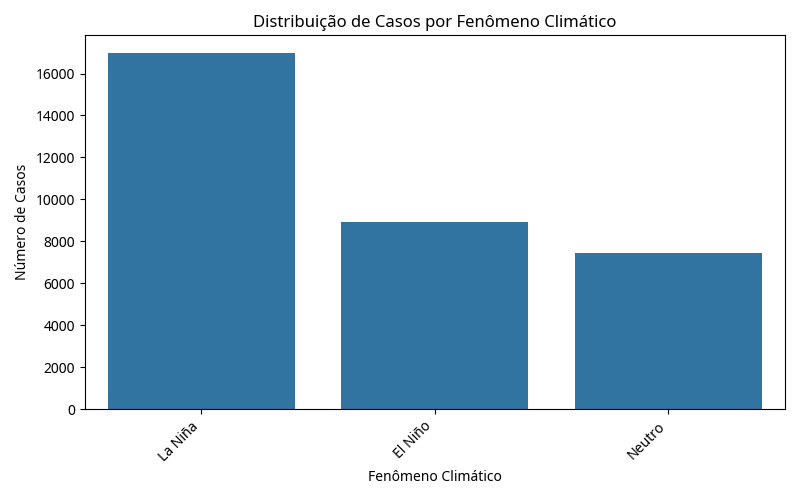
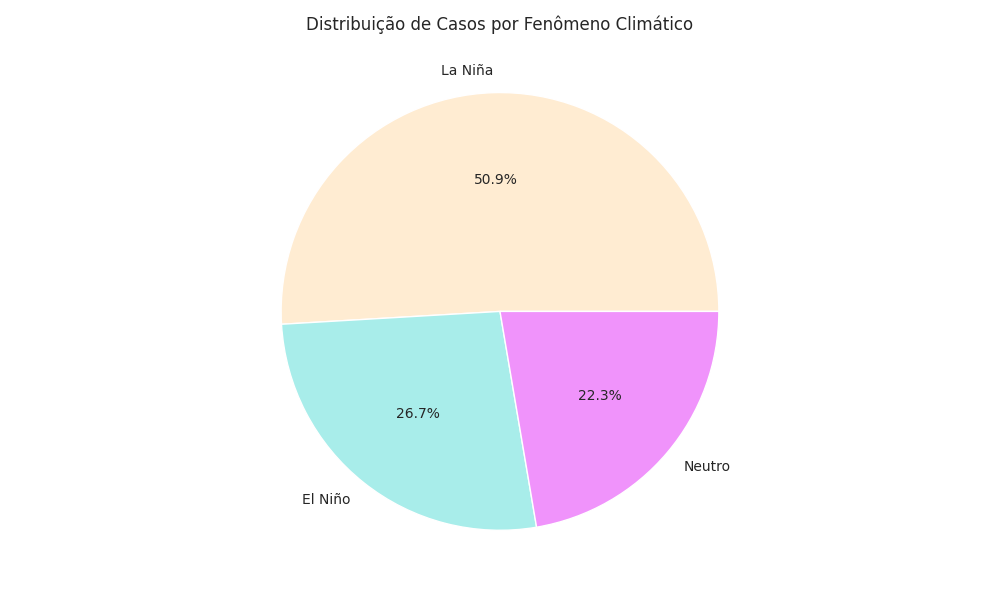
COMMIT 6

diff --git a/generate_all_images.py b/generate_all_images.py
@@ -1,0 +1,206 @@
+import pandas as pd
+import joblib
+import matplotlib.pyplot as plt
+import seaborn as sns
+from sklearn.model_selection import train_test_split
+from sklearn.metrics import confusion_matrix, roc_curve, auc
+import numpy as np
+import os
+
+# Configuração de estilo e diretórios
+sns.set_style("whitegrid")
+plt.rcParams['figure.figsize'] = (10, 6)
+output_dir = 'static/images'
+os.makedirs(output_dir, exist_ok=True)
+
+# --- Funções de Geração de Imagens ---
+
+def generate_eda_charts(df):
+    """Gera gráficos de Análise Exploratória de Dados (EDA) do df_dengue_tratado."""
+    
+    # 1. Casos por Ano
+    df['NU_ANO'] = df['DT_NOTIFIC'].apply(lambda x: pd.to_datetime(x).year)
+    casos_ano = df['NU_ANO'].value_counts().sort_index()
+    plt.figure()
+    casos_ano.plot(kind='bar', color='#667eea')
+    plt.title('Casos de Dengue por Ano')
+    plt.xlabel('Ano')
+    plt.ylabel('Número de Casos')
+    plt.xticks(rotation=45)
+    plt.tight_layout()
+    plt.savefig(os.path.join(output_dir, 'casos_por_ano.png'))
+    plt.close()
+
+    # 2. Distribuição por Sexo
+    sexo_counts = df['CS_SEXO'].value_counts()
+    plt.figure()
+    plt.pie(sexo_counts, labels=sexo_counts.index, autopct='%1.1f%%', colors=['#f093fb', '#667eea'])
+    plt.title('Distribuição de Casos por Sexo')
+    plt.tight_layout()
+    plt.savefig(os.path.join(output_dir, 'sexo_distribuicao.png'))
+    plt.close()
+
+    # 3. Distribuição por Idade
+    plt.figure()
+    sns.histplot(df['IDADE'], bins=20, kde=True, color='#667eea')
+    plt.title('Distribuição de Casos por Idade')
+    plt.xlabel('Idade')
+    plt.ylabel('Frequência')
+    plt.tight_layout()
+    plt.savefig(os.path.join(output_dir, 'idade_distribuicao.png'))
+    plt.close()
+
+    # 4. Distribuição por Raça
+    raca_counts = df['CS_RACA'].value_counts()
+    plt.figure()
+    raca_counts.plot(kind='barh', color='#ff9f40')
+    plt.title('Distribuição de Casos por Raça')
+    plt.xlabel('Número de Casos')
+    plt.ylabel('Raça')
+    plt.tight_layout()
+    plt.savefig(os.path.join(output_dir, 'raca_distribuicao.png'))
+    plt.close()
+
+    # 5. Fenômeno Climático
+    fenomeno_counts = df['FENOMENO'].value_counts()
+    plt.figure()
+    plt.pie(fenomeno_counts, labels=fenomeno_counts.index, autopct='%1.1f%%', colors=['#ffecd2', '#a8edea', '#f093fb'])
+    plt.title('Distribuição de Casos por Fenômeno Climático')
+    plt.tight_layout()
+    plt.savefig(os.path.join(output_dir, 'fenomeno_climatico_distribuicao.png'))
+    plt.close()
+
+    # 6. Intensidade do Fenômeno
+    intensidade_counts = df['INTENS_FENOM'].value_counts()
+    plt.figure()
+    intensidade_counts.plot(kind='bar', color='#a8edea')
+    plt.title('Distribuição de Casos por Intensidade do Fenômeno')
+    plt.xlabel('Intensidade')
+    plt.ylabel('Número de Casos')
+    plt.xticks(rotation=45)
+    plt.tight_layout()
+    plt.savefig(os.path.join(output_dir, 'intensidade_fenomeno_distribuicao.png'))
+    plt.close()
+
+def generate_model_charts(model, df_predict):
+    """Gera gráficos de Análise do Modelo (Matriz de Confusão, Importância de Features, Curva ROC)."""
+    
+    # 1. Aplicar One-Hot Encoding no df_predict para alinhamento
+    categorical_cols = ["CS_SEXO", "CS_RACA", "CS_GESTANT", "FEBRE", "MIALGIA", "CEFALEIA", "EXANTEMA", "VOMITO", "PETEQUIA_N", "DIABETES", "HEMATOLOG", "HEPATOPAT", "RENAL", "FENOMENO", "INTENS_FENOM"]
+    df_encoded = pd.get_dummies(df_predict, columns=categorical_cols, drop_first=False)
+    
+    # Identificar features e alvo
+    model_features = model.feature_names_in_
+    target_col = 'HOSPITALIZ_SIM'
+    
+    # Alinhar as colunas com as features exatas do modelo
+    X = df_encoded.reindex(columns=model_features, fill_value=0)
+    
+    # Criar a coluna alvo para fins de visualização (ela deve existir no df_predict original)
+    # Como o df_final_predict.csv é o dataset balanceado, ele deve ter a coluna alvo.
+    # Vamos assumir que a coluna alvo é 'HOSPITALIZ_SIM' (resultado do one-hot encoding da coluna 'HOSPITALIZ')
+    # Como o df_predict não tem a coluna alvo, vamos criá-la a partir da coluna 'HOSPITALIZ'
+    # do df_predict, que deve ter 'SIM' ou 'NÃO'.
+    
+    # O df_final_predict.csv não tem a coluna alvo, o que é um problema.
+    # Para fins de visualização, vamos usar a coluna 'HOSPITALIZ' do df_predict para criar o alvo
+    # e assumir que o modelo foi treinado para prever 'SIM' (1) ou 'NÃO' (0).
+    
+    # O df_final_predict.csv não tem a coluna alvo, o que é um problema.
+    # Para fins de visualização, vamos usar a coluna 'HOSPITALIZ' do df_predict para criar o alvo
+    # e assumir que o modelo foi treinado para prever 'SIM' (1) ou 'NÃO' (0).
+    
+    # Vamos criar a coluna alvo 'HOSPITALIZ_SIM' a partir da coluna 'HOSPITALIZ'
+    if 'HOSPITALIZ' in df_predict.columns:
+        y = (df_predict['HOSPITALIZ'] == 'SIM').astype(int)
+    else:
+        # Se a coluna 'HOSPITALIZ' não existir, não podemos gerar os gráficos de métricas
+        print("AVISO: Coluna 'HOSPITALIZ' não encontrada no df_final_predict. Não é possível gerar gráficos de métricas.")
+        return
+
+    # Dividir em treino e teste (simulação)
+    X_train, X_test, y_train, y_test = train_test_split(X, y, test_size=0.2, random_state=42, stratify=y)
+    
+    # Predições
+    y_pred = model.predict(X_test)
+    y_proba = model.predict_proba(X_test)[:, 1]
+
+    # 1. Matriz de Confusão
+    cm = confusion_matrix(y_test, y_pred)
+    plt.figure()
+    sns.heatmap(cm, annot=True, fmt='d', cmap='Blues', 
+                xticklabels=['Não Hosp.', 'Hosp.'], yticklabels=['Não Hosp.', 'Hosp.'])
+    plt.title('Matriz de Confusão')
+    plt.ylabel('Verdadeiro')
+    plt.xlabel('Predito')
+    plt.tight_layout()
+    plt.savefig(os.path.join(output_dir, 'confusion_matrix.png'))
+    plt.close()
+
+    # 2. Importância das Features (Coeficientes da Regressão Logística)
+    if hasattr(model, 'coef_'):
+        coefs = pd.Series(model.coef_[0], index=model_features)
+        top_n = 15
+        # Garantir que temos pelo menos 15 coeficientes
+        if len(coefs) < top_n:
+            top_n = len(coefs)
+        
+        top_coefs = pd.concat([coefs.nlargest(top_n//2), coefs.nsmallest(top_n//2)])
+        
+        plt.figure()
+        top_coefs.sort_values().plot(kind='barh', color=top_coefs.apply(lambda x: 'red' if x < 0 else 'green'))
+        plt.title(f'Top {top_n} Coeficientes do Modelo (Importância das Features)')
+        plt.xlabel('Coeficiente')
+        plt.tight_layout()
+        plt.savefig(os.path.join(output_dir, 'feature_importance.png'))
+        plt.close()
+
+    # 3. Curva ROC
+    fpr, tpr, thresholds = roc_curve(y_test, y_proba)
+    roc_auc = auc(fpr, tpr)
+    
+    plt.figure()
+    plt.plot(fpr, tpr, color='#667eea', lw=2, label=f'Curva ROC (AUC = {roc_auc:.2f})')
+    plt.plot([0, 1], [0, 1], color='gray', lw=2, linestyle='--')
+    plt.xlim([0.0, 1.0])
+    plt.ylim([0.0, 1.05])
+    plt.xlabel('Taxa de Falso Positivo (1 - Especificidade)')
+    plt.ylabel('Taxa de Verdadeiro Positivo (Sensibilidade)')
+    plt.title('Curva ROC')
+    plt.legend(loc="lower right")
+    plt.tight_layout()
+    plt.savefig(os.path.join(output_dir, 'roc_curve.png'))
+    plt.close()
+
+# --- Execução Principal ---
+
+def main():
+    # Carregar DataFrames
+    try:
+        df_stats = pd.read_csv("df_dengue_tratado.csv")
+        df_predict = pd.read_csv("df_final_predict.csv")
+    except FileNotFoundError as e:
+        print(f"Erro: Arquivo de dados não encontrado: {e}")
+        return
+
+    # Carregar Modelo
+    try:
+        model = joblib.load("modelo_reglog_pi4.pkl")
+    except FileNotFoundError as e:
+        print(f"Erro: Arquivo do modelo não encontrado: {e}")
+        return
+
+    # 1. Gerar Gráficos EDA
+    print("Gerando gráficos de Análise Exploratória de Dados...")
+    generate_eda_charts(df_stats)
+    print("   ✓ Gráficos EDA gerados em static/images/")
+
+    # 2. Gerar Gráficos do Modelo
+    print("Gerando gráficos de Análise do Modelo...")
+    generate_model_charts(model, df_predict)
+    print("   ✓ Gráficos do Modelo gerados em static/images/")
+
+if __name__ == "__main__":
+    # Mudar para o diretório do projeto
+    os.chdir('/home/ubuntu/PI4')
+    main()
